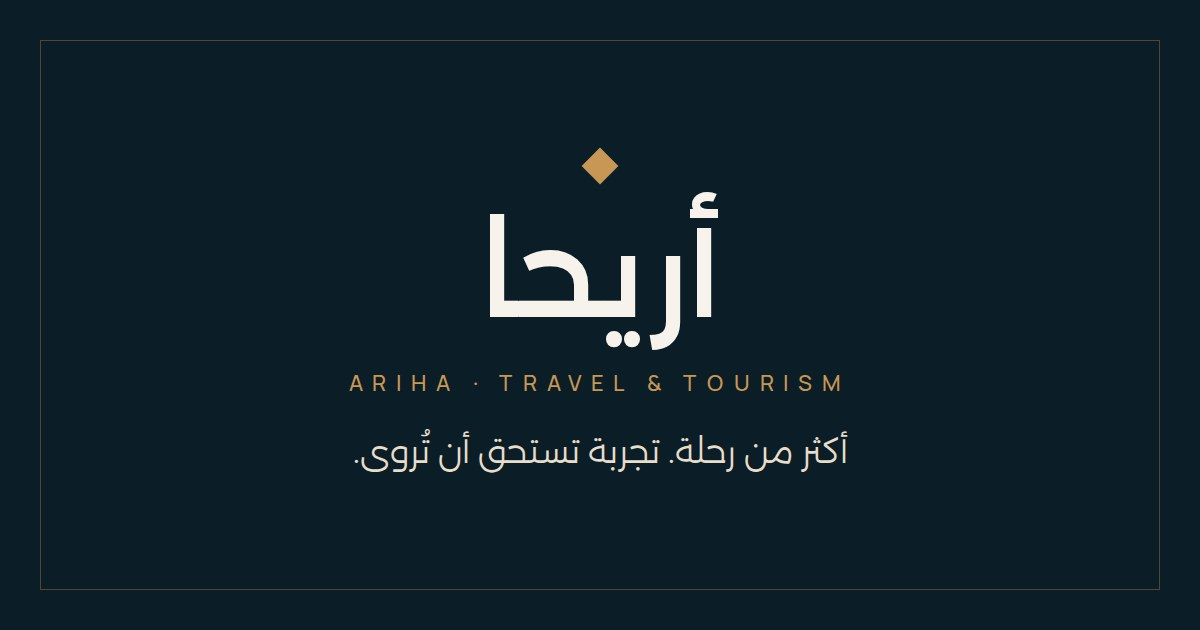
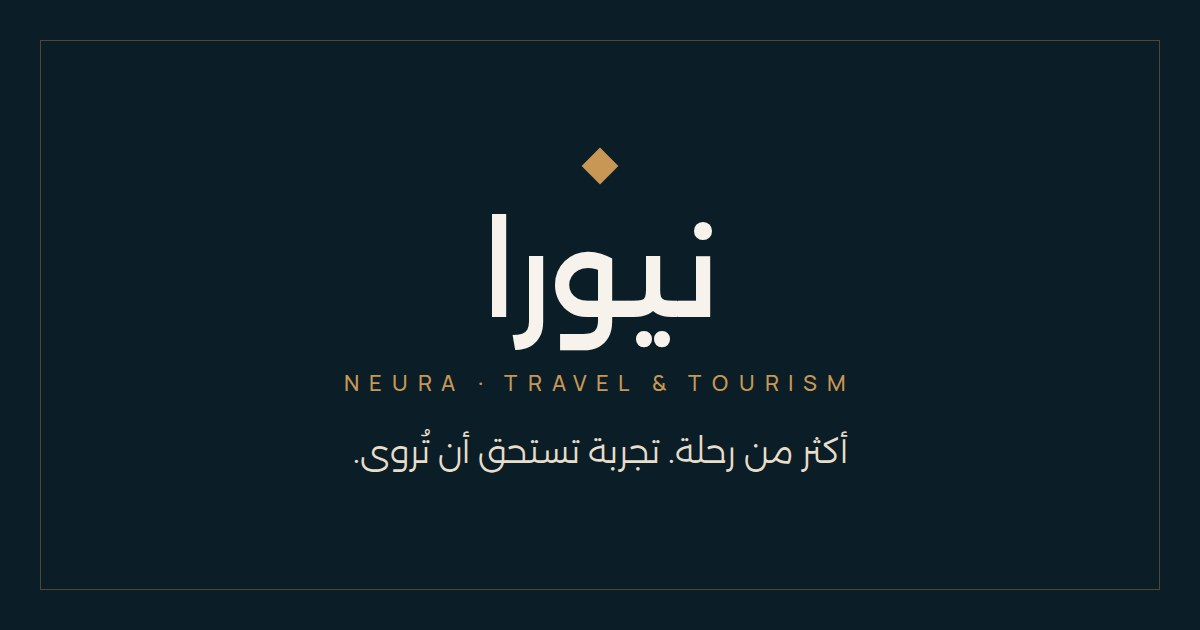
Rename the brand from Ariha to Neura (نيورا)
Replace the company name everywhere it appears: wordmark, page titles,
site settings, about, privacy and terms pages, WhatsApp greetings, web
manifest, CMS title, share image, README and package name.

Claude-Session: https://claude.ai/code/session_01YDdYrhH9q68rvNjtv4pfx4

Changed region(s): [[0.2775, 0.3016, 0.7092, 0.6333]]

diff --git a/app/not-found.tsx b/app/not-found.tsx
@@ -3,7 +3,7 @@ import type { Metadata } from 'next';
 import { alexandria, manrope, plexArabic } from './fonts';
 
 export const metadata: Metadata = {
-  title: 'الصفحة غير موجودة · Page not found | أريحا Ariha',
+  title: 'الصفحة غير موجودة · Page not found | نيورا Neura',
 };
 
 /**
@@ -20,7 +20,7 @@ export default function NotFound() {
           <div className="max-w-[720px]">
             <div className="mb-10 flex items-center justify-center gap-3">
               <span className="h-[9px] w-[9px] rotate-45 bg-gold" aria-hidden="true" />
-              <span className="font-display text-3xl font-medium">أريحا</span>
+              <span className="font-display text-3xl font-medium">نيورا</span>
             </div>
             <div dir="ltr" className="mb-6 font-latin text-[11px] font-semibold tracking-[0.34em] text-gold">
               404 · PAGE NOT FOUND

diff --git a/app/page.tsx b/app/page.tsx
@@ -2,7 +2,7 @@ import Link from 'next/link';
 import type { Metadata } from 'next';
 
 export const metadata: Metadata = {
-  title: 'أريحا للسياحة والسفر · Ariha Travel & Tourism',
+  title: 'نيورا للسياحة والسفر · Neura Travel & Tourism',
   robots: { index: false, follow: true },
   alternates: { canonical: '/ar/' },
 };
@@ -19,7 +19,7 @@ export default function RootPage() {
       </head>
       <body>
         <p>
-          <Link href="/ar/">أريحا للسياحة والسفر</Link> · <Link href="/en/">Ariha Travel &amp; Tourism</Link>
+          <Link href="/ar/">نيورا للسياحة والسفر</Link> · <Link href="/en/">Neura Travel &amp; Tourism</Link>
         </p>
       </body>
     </html>

diff --git a/app/[locale]/layout.tsx b/app/[locale]/layout.tsx
@@ -47,7 +47,7 @@ export const viewport: Viewport = {
 
 // The brand intro plays once per device (first visit only).
 const INTRO_SCRIPT =
-  "try{if(localStorage.getItem('ariha-intro'))document.documentElement.classList.add('intro-seen');else localStorage.setItem('ariha-intro','1')}catch(e){}";
+  "try{if(localStorage.getItem('neura-intro'))document.documentElement.classList.add('intro-seen');else localStorage.setItem('neura-intro','1')}catch(e){}";
 
 // Only the namespaces used by client components are sent to the browser.
 const CLIENT_NAMESPACES = ['meta', 'nav', 'common', 'form', 'whatsapp', 'package', 'packages', 'home'];

diff --git a/e2e/site.spec.ts b/e2e/site.spec.ts
@@ -20,7 +20,7 @@ test('Arabic home page renders right-to-left without errors', async ({ page }) =
   await expect(page.locator('html')).toHaveAttribute('lang', 'ar');
   await expect(page.locator('html')).toHaveAttribute('dir', 'rtl');
   await expect(page.getByRole('heading', { level: 1 })).toContainText('بعض الرحلات');
-  await expect(page).toHaveTitle(/أريحا/);
+  await expect(page).toHaveTitle(/نيورا/);
   for (const id of ['styles', 'packages', 'destinations', 'services', 'custom', 'offer', 'why', 'contact']) {
     await expect(page.locator(`#${id}`)).toBeAttached();
   }

diff --git a/components/sections/HomeSections.tsx b/components/sections/HomeSections.tsx
@@ -26,7 +26,7 @@ export function IntroLoader() {
         {t('brandWordmark')}
       </div>
       <div dir="ltr" className="font-latin text-[10px] tracking-[0.42em] text-gold">
-        ARIHA · {t('brandSub')}
+        NEURA · {t('brandSub')}
       </div>
       <div className="relative h-px w-[120px] overflow-hidden bg-ivory/12">
         <span className="intro-line absolute inset-y-0 start-0 bg-gold" />

diff --git a/components/ui/RichText.tsx b/components/ui/RichText.tsx
@@ -5,7 +5,7 @@
 export function RichText({ text, className = '' }: { text: string; className?: string }) {
   const blocks = text.trim().split(/\n\s*\n/);
   return (
-    <div className={`prose-ariha ${className}`}>
+    <div className={`prose-neura ${className}`}>
       {blocks.map((block, i) => {
         const lines = block
           .split('\n')

diff --git a/public/admin/index.html b/public/admin/index.html
@@ -4,7 +4,7 @@
     <meta charset="utf-8" />
     <meta name="viewport" content="width=device-width, initial-scale=1" />
     <meta name="robots" content="noindex" />
-    <title>لوحة التحكم · أريحا</title>
+    <title>لوحة التحكم · نيورا</title>
     <link rel="icon" href="/favicon.svg" />
   </head>
   <body>

diff --git a/app/globals.css b/app/globals.css
@@ -181,11 +181,11 @@
   .no-scrollbar::-webkit-scrollbar {
     display: none;
   }
-  .prose-ariha p {
+  .prose-neura p {
     margin: 0 0 1.1em;
     line-height: 1.95;
   }
-  .prose-ariha ul {
+  .prose-neura ul {
     margin: 0 0 1.1em;
     padding-inline-start: 1.2em;
     line-height: 1.9;

diff --git a/README.md b/README.md
@@ -1,6 +1,6 @@
-# أريحا للسياحة والسفر — الموقع الرسمي
+# نيورا للسياحة والسفر — الموقع الرسمي
 
-موقع ثنائي اللغة (عربي/إنجليزي) لشركة أريحا للسياحة والسفر، مبني بـ **Next.js** ومنشور على **Netlify**، مع لوحة تحكم لإدارة الباقات والمحتوى دون برمجة.
+موقع ثنائي اللغة (عربي/إنجليزي) لشركة نيورا للسياحة والسفر، مبني بـ **Next.js** ومنشور على **Netlify**، مع لوحة تحكم لإدارة الباقات والمحتوى دون برمجة.
 
 - الموقع: https://araha-travel.netlify.app
 - لوحة التحكم: https://araha-travel.netlify.app/admin/
